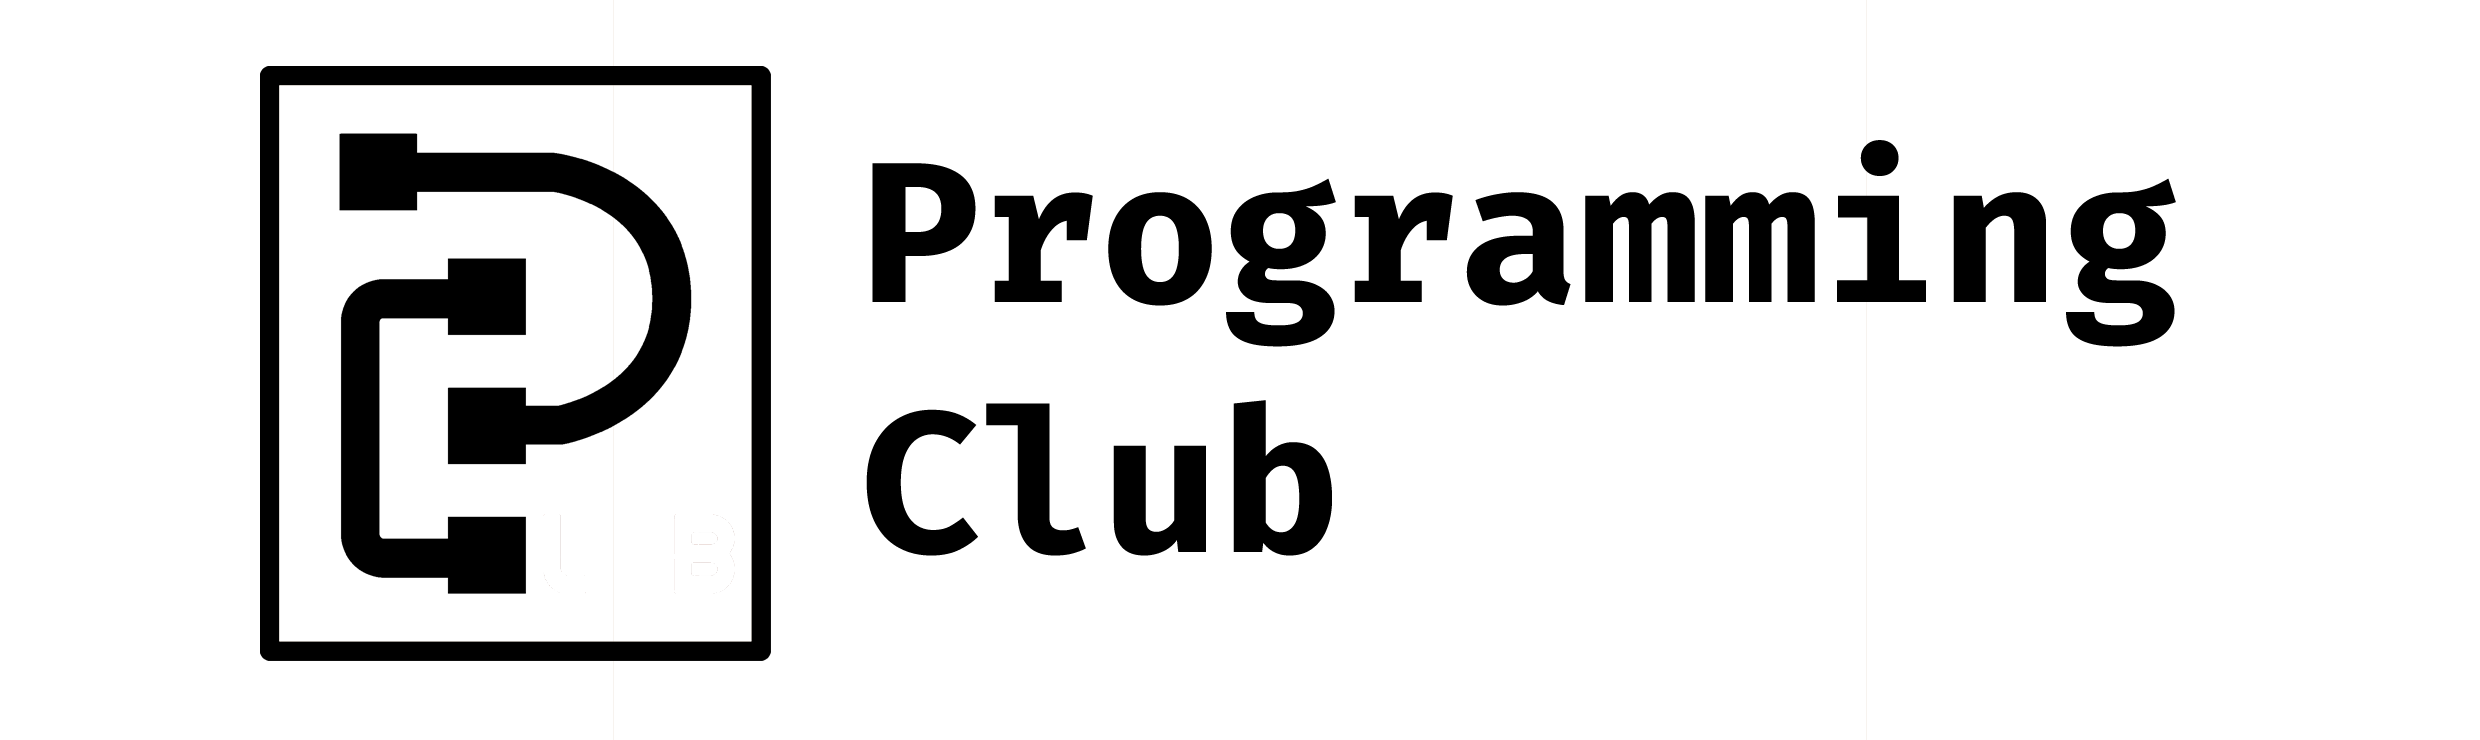
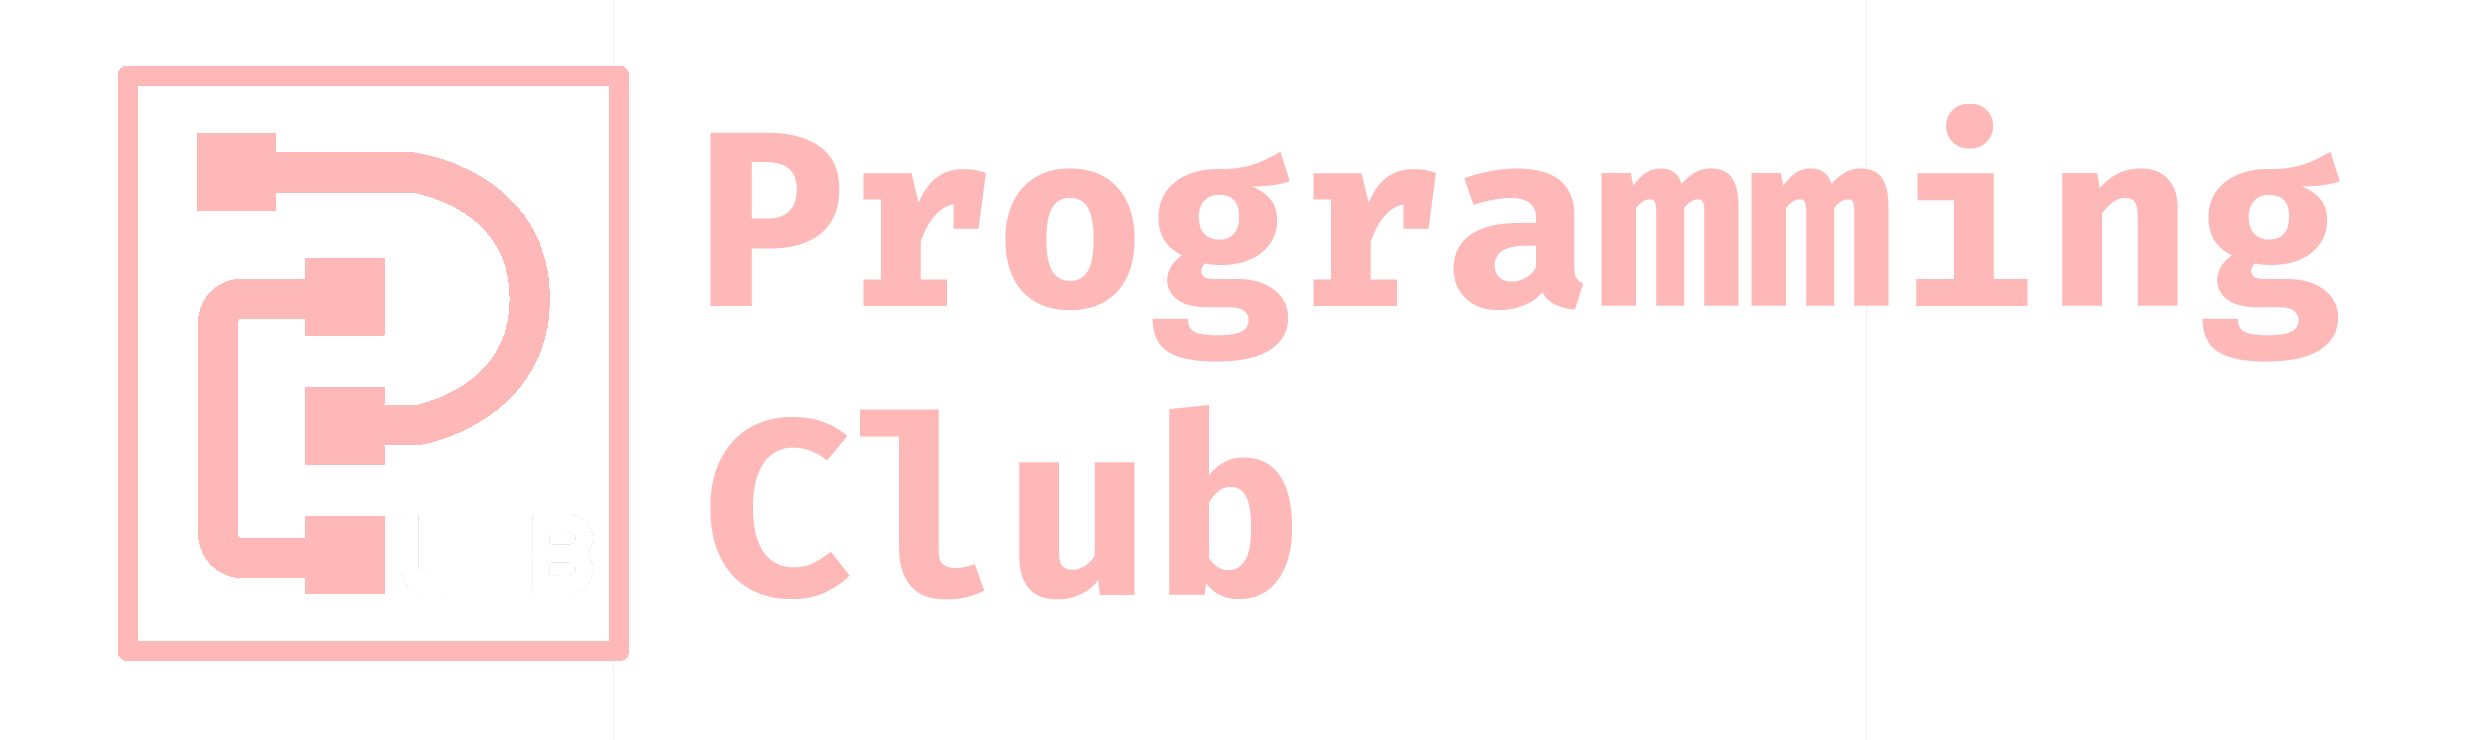
theme

Changed region(s): [[0.031, 0.0622, 0.9625, 0.9014]]

diff --git a/static/css/base.css b/static/css/base.css
@@ -8,21 +8,25 @@
 body {
 	/* width: 100%; */
 	font-family: "Nunito", "Raleway", sans-serif;
-  color: #272829;
+  color: #1f2833;
   /* font-family: Roboto; */
-  background: #ede7f6;
+  /* background: #ede7f6; */
   margin: 0;
 }
 
 a {
-	color: #c0c2c2;
+	/* color: #c0c2c2; */
 	text-decoration: none;
 }
 /* /*  */
 a:hover {
-	/* color: #f5fcff; */
+	color: #edf2f4;
 	text-decoration: none;
 }
+
+/* .menu .menu-item .sub-menu .sub-menu-item a:hover{
+  color:white;
+} */
 
 .menu-item-links{
   font-weight: 700;
@@ -30,7 +34,7 @@ a:hover {
   text-transform: uppercase;
   letter-spacing: 3px;
   position: relative;
-  color: #9575cd;
+  color: #edf2f4;
   padding: 10px 0px;
 }
 
@@ -39,7 +43,7 @@ a:hover {
   top:0;
   left:0;
   right:0;
-  background: #fff;
+  background: #2b2d42;
   /* margin: auto; */
   text-align: center;
   padding: 0px;
@@ -69,7 +73,7 @@ a:hover {
 }
 
 .menu-item:hover{
-  border-bottom: 3px solid #9575cd;
+  border-bottom: 3px solid #edf2f4;
   /* width: 100%; */
   /* left: 0%; */
   -webkit-transition: 0.2s ease-in-out;
@@ -79,7 +83,7 @@ a:hover {
 .sub-menu {
   position: absolute;
   left: 0%;
-  background: #fff;
+  background: #2b2d42;
   top: 38px;
   padding: 0;
   text-align: left;
@@ -98,7 +102,7 @@ a:hover {
 .menu-item:nth-child(n + 3):nth-child(-n + 4) .plus-icon {
   width: 10px;
   height: 10px;
-  stroke: #9575cd;
+  stroke: #edf2f4;
   margin-bottom: 1px;
 }
 .menu-item:nth-child(n + 3):nth-child(-n + 4) .sub-menu-item {
@@ -123,7 +127,7 @@ a:hover {
   transition: 0.15s ease all;
 }
 .menu-item:nth-child(n + 3):nth-child(-n + 4):hover .sub-menu-item a:hover {
-  color: #7850bf;
+  color: white;
 }
 .menu-item:nth-child(n + 3):nth-child(-n + 4):hover .sub-menu-item:first-child {
   -webkit-transform: translateY(0px);
@@ -172,7 +176,7 @@ a:hover {
     position: fixed;
     width: 26px;
     height: 4px;
-    background-color: #9575cd;
+    background-color: #edf2f4;
     top: 22px;
     right: 15px;
     -webkit-transition: 0.15s ease all;
@@ -183,7 +187,7 @@ a:hover {
     position: fixed;
     width: 26px;
     height: 4px;
-    background-color: #9575cd;
+    background-color: #edf2f4;
     -webkit-transform: rotate(90deg);
             transform: rotate(90deg);
     right: 15px;
@@ -207,10 +211,10 @@ a:hover {
     display: block;
   }
   .menu.open .menu-item a:hover {
-    color: #7850bf;
+    color: #edf2f4;
   }
   .menu.open .menu-item a:hover .plus-icon {
-    stroke: #7850bf;
+    stroke: #edf2f4;
   }
   .menu.open .menu-item:nth-child(3):hover .sub-menu-item {
     margin: 10px auto;

diff --git a/templates/cp_prev.html b/templates/cp_prev.html
@@ -8,21 +8,21 @@
 
 {% block main %}
       
-
-   <!-- <p style="color:white">Hello</p> -->
-   
-    
-
-    <!--  <div class="countdown" id="2" data-time-upto="2020/6/17 23:00:00"></div> -->
-
-    <div class="countdown" data-countdown="2020-06-19T17:00:00Z"></div>
-    <div class="countdown" data-countdown="2020-06-18 22:41:00Z"></div>
-    <div class="countdown" data-countdown="2020/06/18 22:42:00"></div>
     <div class="countdown" data-countdown="2020/06/18 22:43:00"></div>
 
+    <form method="POST" id="prob-form">{% csrf_token %}
+        <p>Min Rating : <input type="number" name="min" id="min"></p>
+        <p>Max Rating : <input type="number" name="max" id="max"></p>
+        <p>User Name : <input type="text" name="username" id="username"></p>
+        <p>Tag : <input type="text" name="tag" placeholder=" &quot ; &quot Seperated" id="tag"></p>
+        <button type="button" id = "sub_id" class="save btn btn-default">Get Questions</button>
+    </form>
 
-    <!-- <div class="countdown" id="4" data-time-upto="2020/6/18 00:00:00"></div> --> -->
+    <div class="loading"></div>
+      
 
+    <div class="prob" id="p">
+    </div>
 
 {% endblock %}
     
@@ -30,16 +30,25 @@
     <script src="https://ajax.googleapis.com/ajax/libs/jquery/3.5.1/jquery.min.js"></script>
     <script type="text/javascript">
        $('#sub_id').click(function(e){
+           $('.loading').show();
            $.ajax({
                type:'POST',
                url:"/cp/",
-               data:$('#prob-form').serialize(),
+               data:{
+                   min:$('#min').val(),
+                   max:$('#max').val(),
+                   username:$('#username').val(),
+                   tag:$('#tag').val(),
+                   choose:"prob"
+                },
                success:function(data){
                    console.log(data['prob']);
+                   $('.loading').hide();
                    $('#p').append("<p>" + data['prob'][0] + "</p>");
                    $('#p').append("<p>" + data['prob'][1] + "</p>");
                    document.getElementById("prob-form").reset();
-               }
+                   
+               },
            });
        });
     </script>

diff --git a/static/css/footer.scss b/static/css/footer.scss
@@ -1,27 +1,7 @@
 @import url("https://fonts.googleapis.com/css2?family=Source+Sans+Pro&display=swap");
 
-// * {
-// 	margin: 0;
-// 	padding: 0;
-// 	-webkit-box-sizing: border-box;
-// 	box-sizing: border-box;
-// }
-
-// body {
-// 	font-family: Source Sans Pro;
-// 	color: black;
-// }
-
-// .main {
-// 	min-height: 100vh;
-// }
-
 .footer {
-	// position: r	elative;
-	// bottom: 0;
-	// left: 0;
-	// right: 0;
-	background-color: #ba25ff;
+	background-color: #2b2d42;
 	.footer-container {
 		display: flex;
 		flex-wrap: wrap;
@@ -33,10 +13,11 @@
 			p {
 				position: relative;
 				top: 50%;
-				font-size: 14px;
+				font-size: 17px;
 				transform: translateY(-50%);
-				color: #000000;
-				padding: 20px 30px;
+				// font-style: italic;
+				color: #edf2f4;
+				padding: 10px 30px;
 				text-align: center;
 			}
 

diff --git a/static/css/styles.css b/static/css/styles.css
@@ -10,13 +10,15 @@ html {
 
 html,
 body {
-    background-color: #000;
+    background-color: wheat;
     width: 100%;
     height: 100%;
+    min-height: 100vh;
 }
 
 body{
     margin-top:100px;
+    
 }
 
 .countdown{
@@ -24,3 +26,29 @@ body{
     color: white;
     font-size: 20px;
 }
+
+.ajax-loader {
+    visibility: hidden;
+    background-color: rgba(255,255,255,0.7);
+    position: absolute;
+    z-index: +100 !important;
+    width: 50px;
+    height:50px;
+  }
+  
+  .ajax-loader img {
+    position: relative;
+    top:50%;
+    left:50%;
+  }
+
+.loading
+{
+    width: 16px;
+    height: 16px;
+    background:transparent '/media/images/ajax-loader.gif' no-repeat 0 0;
+    font-size: 0px;
+    display: inline-block;
+}
+
+  

diff --git a/templates/base.html b/templates/base.html
@@ -28,7 +28,7 @@
         <li class="menu-item"><a class="menu-item-links" href="/home">Home</a></li>
         <li class="menu-item"><a class="menu-item-links" href="/resources">Resources</a></li>
         <li class="menu-item">
-          <a class="menu-item-links" href="#0"
+          <a class="menu-item-links"
             >Events
             <svg
               version="1.1"
@@ -106,7 +106,7 @@
               </div>
           </div>
           <div class="footer-right">
-              <p>&#x270D; Created by Namit Shah &amp; Suhanee Patel </p>
+              <p>&copy; 2020 &nbsp; Design by &nbsp;&#x26A1;&nbsp; <i>Namit Shah</i> &nbsp; &amp; &nbsp;<i>Suhanee Patel</i> </p>
           </div>
       </div>
     </footer>

diff --git a/static/css/footer.css b/static/css/footer.css
@@ -1,6 +1,6 @@
 @import url("https://fonts.googleapis.com/css2?family=Source+Sans+Pro&display=swap");
 .footer {
-  background-color: #ba25ff;
+  background-color: #2b2d42;
 }
 
 .footer .footer-container {
@@ -19,11 +19,11 @@
 .footer .footer-container .footer-right p {
   position: relative;
   top: 50%;
-  font-size: 14px;
+  font-size: 17px;
   -webkit-transform: translateY(-50%);
           transform: translateY(-50%);
-  color: #000000;
-  padding: 20px 30px;
+  color: #edf2f4;
+  padding: 10px 30px;
   text-align: center;
 }
 

diff --git a/static/css/event.css b/static/css/event.css
@@ -13,7 +13,7 @@
 }
 
 body {
-    background: #24282f;
+    background: #edf2f4;
     font-family: 'Source Sans Pro', sans-serif;
     margin-top: 50px;
     min-height: 100vh;
@@ -44,7 +44,7 @@ body {
     padding-top: 20px;
     padding-left: 40px;
     font-family: 'Source Sans Pro', sans-serif;
-    color: white;
+    color: #2b2d42;
     font-size: 40px;
 }
 

diff --git a/competitive_programming/views.py b/competitive_programming/views.py
@@ -57,7 +57,7 @@ def contest(request):
         # print(time_interval)
         if time_interval>10000:
             define_table()
-        return render(request,'cp.html')
+        return render(request,'cp_prev.html')
     elif request.is_ajax():
         if request.POST['choose']=="contests":
             platform_name,contests = get_contest(int(request.POST['id']))
